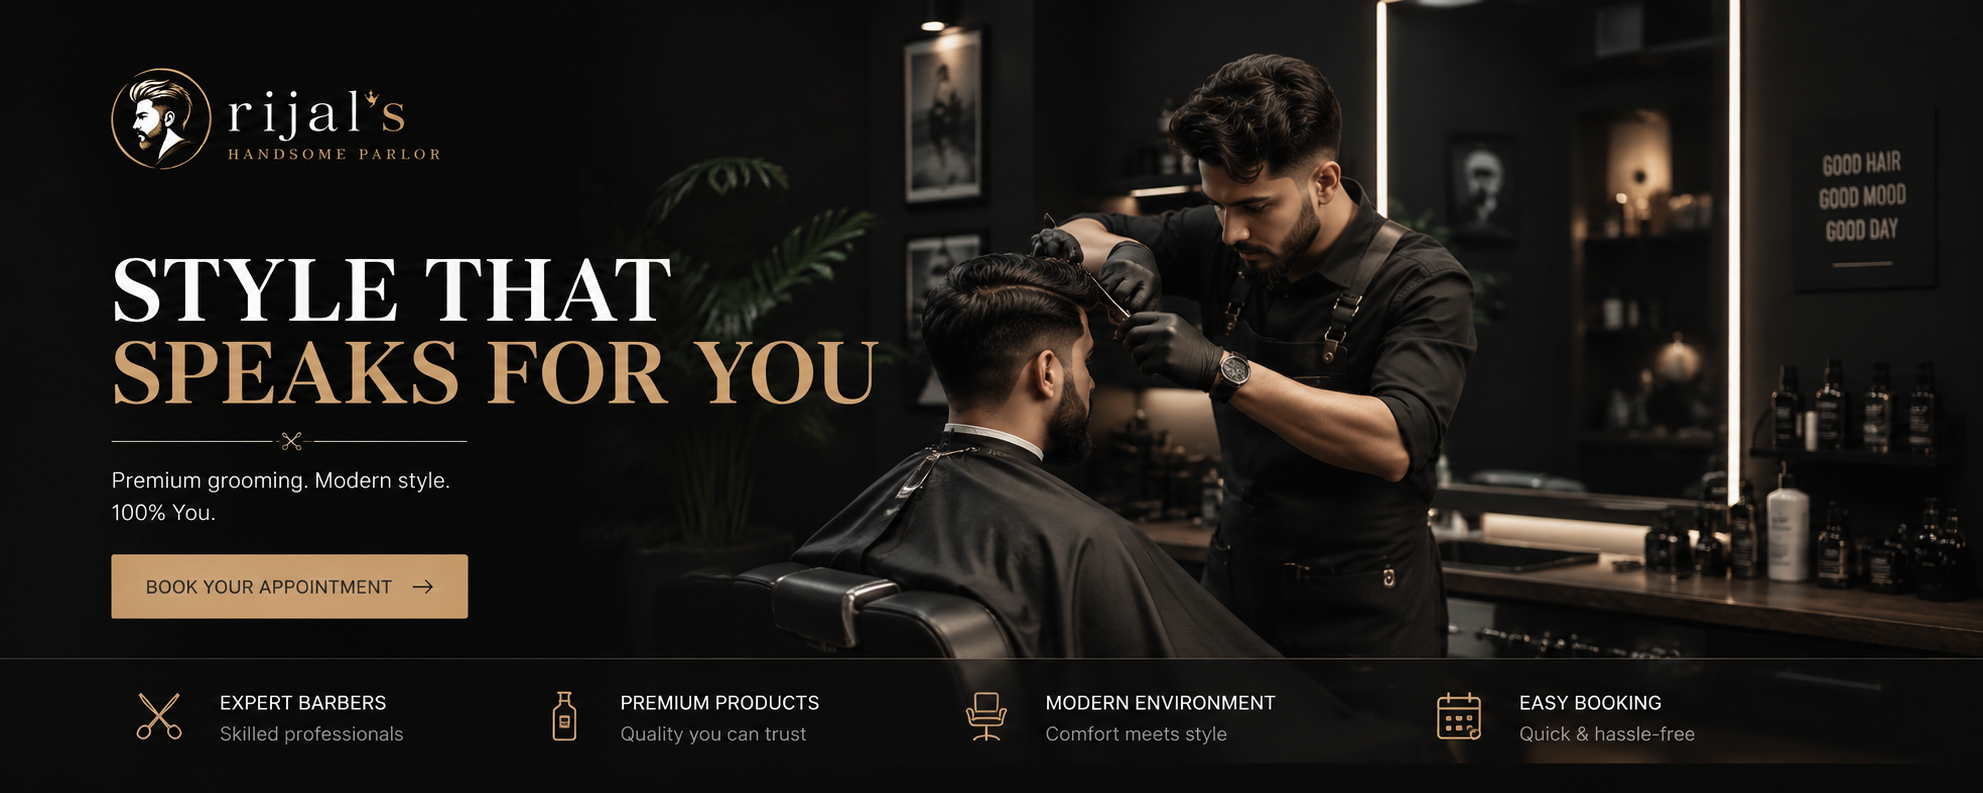
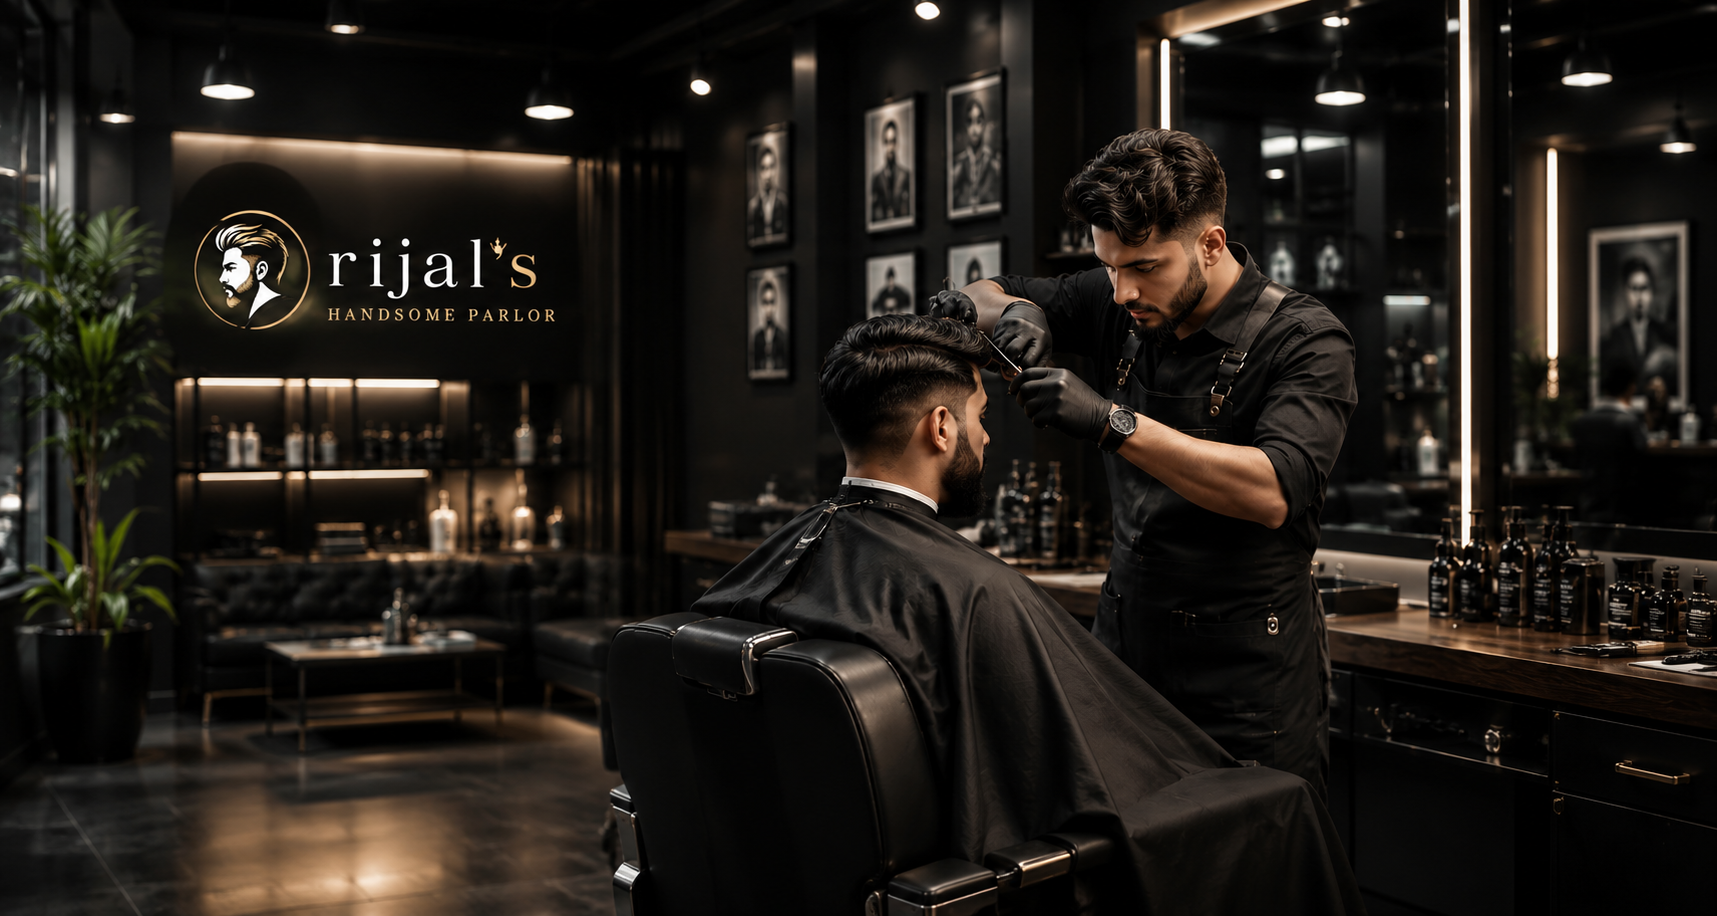
add transaction-based booking to prevent race conditions, filter past time slots using Kathmandu timezone, fix server clock/timezone bug

diff --git a/server/routes/bookings.js b/server/routes/bookings.js
@@ -33,34 +33,45 @@ router.post('/', optionalAuth, async (req, res) => {
     return res.status(400).json({ error: 'Selected time is outside working hours' });
   }
 
-  const existingBookings = await prisma.booking.findMany({
-    where: { date: new Date(date), status: { not: 'CANCELLED' } }
-  });
+  try {
+    const booking = await prisma.$transaction(async (tx) => {
+      const existingBookings = await tx.booking.findMany({
+        where: { date: new Date(date), status: { not: 'CANCELLED' } }
+      });
 
-  const hasConflict = existingBookings.some(booking => {
-    const bStart = timeToMinutes(booking.startTime);
-    const bEnd = timeToMinutes(booking.endTime);
-    return bStart < endMinutes && startMinutes < bEnd;
-  });
+      const hasConflict = existingBookings.some(booking => {
+        const bStart = timeToMinutes(booking.startTime);
+        const bEnd = timeToMinutes(booking.endTime);
+        return bStart < endMinutes && startMinutes < bEnd;
+      });
 
-  if (hasConflict) return res.status(409).json({ error: 'This time slot is no longer available' });
+      if (hasConflict) {
+        throw new Error('SLOT_TAKEN');
+      }
 
-const booking = await prisma.booking.create({
-  data: {
-    customerId: req.user ? req.user.userId : null,
-    serviceId: service.id,
-    date: new Date(date),
-    startTime,
-    endTime: minutesToTime(endMinutes),
-    totalPrice: service.price,
-    guestName: req.user ? null : guestName,
-    guestEmail: req.user ? null : guestEmail,
-    guestPhone: req.user ? null : guestPhone,
-    otp: generateOtp()
+      return tx.booking.create({
+        data: {
+          customerId: req.user ? req.user.userId : null,
+          serviceId: service.id,
+          date: new Date(date),
+          startTime,
+          endTime: minutesToTime(endMinutes),
+          totalPrice: service.price,
+          guestName: req.user ? null : guestName,
+          guestEmail: req.user ? null : guestEmail,
+          guestPhone: req.user ? null : guestPhone,
+          otp: generateOtp()
+        }
+      });
+    }, { isolationLevel: 'Serializable' });
+
+    res.status(201).json(booking);
+  } catch (err) {
+    if (err.message === 'SLOT_TAKEN' || err.code === 'P2034') {
+      return res.status(409).json({ error: 'This time slot is no longer available' });
+    }
+    throw err;
   }
-});
-
-  res.status(201).json(booking);
 });
 
 router.get('/my', requireAuth, async (req, res) => {

diff --git a/client/src/pages/AdminUsersPage.jsx b/client/src/pages/AdminUsersPage.jsx
@@ -1,0 +1,51 @@
+import { useState, useEffect } from 'react'
+
+function AdminUsersPage() {
+  const [users, setUsers] = useState([])
+  const [loading, setLoading] = useState(true)
+
+  useEffect(() => {
+    const token = localStorage.getItem('token')
+    fetch('http://localhost:5000/api/dashboard/users', {
+      headers: { 'Authorization': `Bearer ${token}` }
+    })
+      .then(res => res.json())
+      .then(data => {
+        setUsers(data)
+        setLoading(false)
+      })
+  }, [])
+
+  if (loading) return <p className="text-center mt-16 text-slate-400">Loading users...</p>
+
+  return (
+    <div className="max-w-3xl mx-auto px-6 py-12">
+      <h1 className="text-2xl font-bold text-slate-100 mb-6">Customers</h1>
+
+      <div className="grid gap-4">
+        {users.map(u => (
+          <div key={u.id} className="bg-slate-800 border border-slate-700 rounded-lg p-4">
+            <h3 className="text-slate-100 font-semibold">{u.name}</h3>
+            <p className="text-slate-400 text-sm">{u.email}</p>
+            <p className="text-slate-500 text-xs mt-1">
+              {u.bookings.length} booking{u.bookings.length !== 1 ? 's' : ''}
+            </p>
+
+            {u.bookings.length > 0 && (
+              <div className="mt-3 flex flex-col gap-2">
+                {u.bookings.map(b => (
+                  <div key={b.id} className="bg-slate-900 rounded p-2 text-sm">
+                    <span className="text-slate-300">{b.service.name}</span>
+                    <span className="text-slate-500"> — {b.date.slice(0, 10)} at {b.startTime} — {b.status}</span>
+                  </div>
+                ))}
+              </div>
+            )}
+          </div>
+        ))}
+      </div>
+    </div>
+  )
+}
+
+export default AdminUsersPage

diff --git a/client/src/components/Navbar.jsx b/client/src/components/Navbar.jsx
@@ -10,16 +10,17 @@ function Navbar({ user, onLogout }) {
       </Link>
 
       <div className="flex items-center gap-6">
-        {user?.role === 'ADMIN' ? (
-          <>
-            <Link to="/" className="hover:text-slate-300">Dashboard</Link>
-            <Link to="/admin/services" className="hover:text-slate-300">Manage Services</Link>
-            <Link to="/admin/schedule" className="hover:text-slate-300">Manage Schedule</Link>
-            <button onClick={() => { onLogout(); navigate('/') }} className="bg-slate-700 px-3 py-1.5 rounded hover:bg-slate-600">
-              Log out
-            </button>
-          </>
-        ) : user ? (
+{user?.role === 'ADMIN' ? (
+  <>
+    <Link to="/" className="hover:text-slate-300">Dashboard</Link>
+    <Link to="/admin/services" className="hover:text-slate-300">Manage Services</Link>
+    <Link to="/admin/schedule" className="hover:text-slate-300">Manage Schedule</Link>
+    <Link to="/admin/users" className="hover:text-slate-300">Users</Link>
+    <button onClick={() => { onLogout(); navigate('/') }} className="bg-slate-700 px-3 py-1.5 rounded hover:bg-slate-600">
+      Log out
+    </button>
+  </>
+) :  user ? (
           <>
             <Link to="/" className="hover:text-slate-300">Home</Link>
             <Link to="/about" className="hover:text-slate-300">About</Link>

diff --git a/server/routes/availability.js b/server/routes/availability.js
@@ -21,16 +21,23 @@ router.get('/', async (req, res) => {
     where: { date: new Date(date), status: { not: 'CANCELLED' } }
   });
 
-  const slots = [];
-  for (let start = openMinutes; start + duration <= closeMinutes; start += 30) {
-    const end = start + duration;
-    const hasConflict = existingBookings.some(booking => {
-      const bStart = timeToMinutes(booking.startTime);
-      const bEnd = timeToMinutes(booking.endTime);
-      return bStart < end && start < bEnd;
-    });
-    if (!hasConflict) slots.push(minutesToTime(start));
-  }
+const now = new Date(new Date().toLocaleString('en-US', { timeZone: 'Asia/Kathmandu' }));
+const todayStr = now.toISOString().slice(0, 10);
+const isToday = date === todayStr;
+const currentMinutes = now.getHours() * 60 + now.getMinutes();
+
+const slots = [];
+for (let start = openMinutes; start + duration <= closeMinutes; start += 30) {
+  if (isToday && start < currentMinutes) continue;
+
+  const end = start + duration;
+  const hasConflict = existingBookings.some(booking => {
+    const bStart = timeToMinutes(booking.startTime);
+    const bEnd = timeToMinutes(booking.endTime);
+    return bStart < end && start < bEnd;
+  });
+  if (!hasConflict) slots.push(minutesToTime(start));
+}
 
   res.json(slots);
 });

diff --git a/client/src/pages/BookingPage.jsx b/client/src/pages/BookingPage.jsx
@@ -60,7 +60,6 @@ body: JSON.stringify({
     setConfirmation(data)
   }
 
-  // BookingPage.jsx — replace just the returned JSX (everything above it stays as-is)
 if (confirmation) {
   return (
     <div className="max-w-md mx-auto px-6 py-16 text-center">
@@ -69,6 +68,16 @@ if (confirmation) {
         <p className="text-slate-300">Date: {confirmation.date.slice(0, 10)}</p>
         <p className="text-slate-300">Time: {confirmation.startTime}</p>
         <p className="text-slate-300">Status: {confirmation.status}</p>
+      </div>
+
+      <div className="bg-amber-950 border border-amber-800 rounded-lg p-4 mt-4 text-left">
+        <p className="text-amber-200 text-sm font-medium">Your booking code:</p>
+        <p className="text-amber-100 text-3xl font-bold tracking-widest mt-1">
+          {confirmation.otp}
+        </p>
+        <p className="text-amber-300 text-sm mt-2">
+          Please save this code somewhere safe. You'll need to show it when you arrive for your appointment.
+        </p>
       </div>
     </div>
   )

diff --git a/client/src/App.jsx b/client/src/App.jsx
@@ -12,6 +12,7 @@ import Navbar from './components/Navbar'
 import AboutPage from './pages/AboutPage'
 import ContactPage from './pages/ContactPage'
 import Footer from './components/Footer'
+import AdminUsersPage from './pages/AdminUsersPage'
 
 function App() {
   const [user, setUser] = useState(null)
@@ -49,6 +50,7 @@ function App() {
         <Route path="/admin/schedule" element={<AdminSchedulePage />} />
         <Route path="/about" element={<AboutPage />} />
         <Route path="/contact" element={<ContactPage />} />
+        <Route path="/admin/users" element={<AdminUsersPage />} />
       </Routes>
       <Footer />
     </BrowserRouter>

diff --git a/client/src/pages/AdminDashboardPage.jsx b/client/src/pages/AdminDashboardPage.jsx
@@ -74,6 +74,10 @@ return (
     <div>
       <p className="text-slate-100">{b.customer ? b.customer.name : b.guestName} — {b.service.name}</p>
       <p className="text-slate-400 text-sm">{b.date.slice(0, 10)} at {b.startTime}</p>
+        <p className="text-slate-500 text-xs mt-0.5">Code: <span className="font-mono text-slate-300">{b.otp}</span></p>
+      <p className="text-slate-500 text-xs mt-0.5">
+  Booked on {b.createdAt.slice(0, 10)} at {b.createdAt.slice(11, 16)}
+</p>
       <div className="flex gap-2 mt-1 items-center">
         <Badge variant={
           b.status === 'CONFIRMED' ? 'default' :

diff --git a/server/routes/dashboard.js b/server/routes/dashboard.js
@@ -19,4 +19,15 @@ router.get('/stats', requireAuth, requireAdmin, async (req, res) => {
   res.json({ totalBookings, pendingBookings, cancelledBookings, revenue });
 });
 
+
+router.get('/users', requireAuth, requireAdmin, async (req, res) => {
+  const users = await prisma.user.findMany({
+    where: { role: 'CUSTOMER' },
+    include: { bookings: { include: { service: true } } },
+    orderBy: { createdAt: 'desc' }
+  });
+  res.json(users);
+});
+
+
 module.exports = router;
